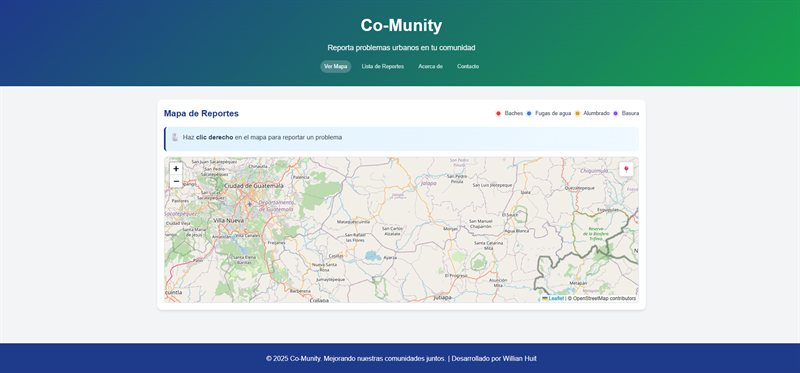
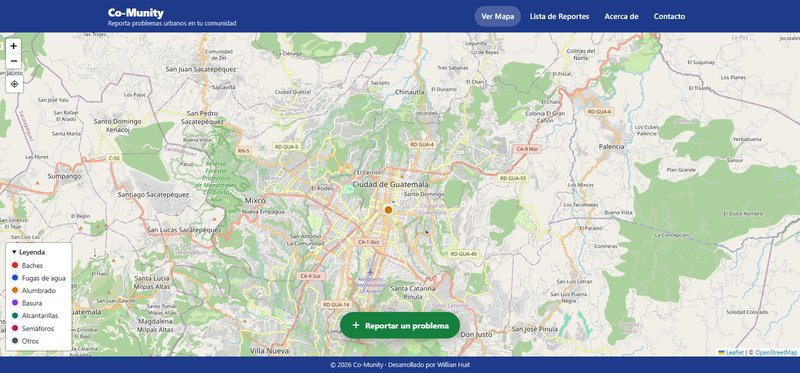
feat(proyectos): Co-munity con descripción, captura y enlace al código actualizados

diff --git a/index.html b/index.html
@@ -746,22 +746,25 @@
 
                 <div class="project-card">
                     <div class="project-image">
-                        <img src="src/img/projects/co-munity.jpg" alt="Co-munity" width="800" height="373" loading="lazy" decoding="async">
+                        <img src="src/img/projects/co-munity.jpg" alt="Mapa de Co-munity con reportes ciudadanos en Ciudad de Guatemala" width="800" height="373" loading="lazy" decoding="async">
                     </div>
                     <div class="project-content">
                         <h3 data-i18n="projects.project6.title">Co-munity</h3>
                         <p data-i18n="projects.project6.description">
-                            Plataforma web en desarrollo para gestión comunitaria y colaboración social, 
-                            facilitando la comunicación y organización de comunidades.
+                            Plataforma ciudadana para reportar problemas urbanos en Guatemala (baches, fugas, alumbrado, basura)
+                            sobre un mapa interactivo, con una lista pública filtrable y exportación a CSV.
                         </p>
                         <div class="project-tags">
-                            <span class="tag">Web App</span>
-                            <span class="tag">En desarrollo</span>
-                            <span class="tag">Community</span>
+                            <span class="tag">JavaScript</span>
+                            <span class="tag">Leaflet</span>
+                            <span class="tag">Google Sheets</span>
                         </div>
                         <div class="project-links">
                             <a href="https://willianhuit.github.io/co-munity/" target="_blank" rel="noopener noreferrer">
                                 <svg class="icon" aria-hidden="true" focusable="false"><use href="#i-external-link-alt"></use></svg> Ver demo
+                            </a>
+                            <a href="https://github.com/WillianHuit/co-munity" target="_blank" rel="noopener noreferrer">
+                                <svg class="icon" aria-hidden="true" focusable="false"><use href="#i-github"></use></svg> Ver código
                             </a>
                         </div>
                     </div>

diff --git a/src/js/translations.js b/src/js/translations.js
@@ -116,7 +116,7 @@ const translations = {
             },
             project6: {
                 title: "Co-munity",
-                description: "Plataforma web en desarrollo para gestión comunitaria y colaboración social, facilitando la comunicación y organización de comunidades."
+                description: "Plataforma ciudadana para reportar problemas urbanos en Guatemala (baches, fugas, alumbrado, basura) sobre un mapa interactivo, con una lista pública filtrable y exportación a CSV."
             },
             project7: {
                 title: "Plataforma de Ajedrez Maya",
@@ -276,7 +276,7 @@ const translations = {
             },
             project6: {
                 title: "Co-munity",
-                description: "Web platform in development for community management and social collaboration, facilitating communication and organization of communities."
+                description: "Civic platform to report urban problems in Guatemala (potholes, water leaks, street lighting, trash) on an interactive map, with a searchable public list and CSV export."
             },
             project7: {
                 title: "Mayan Chess Platform",
